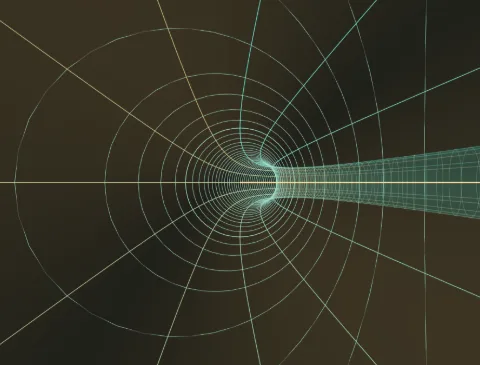
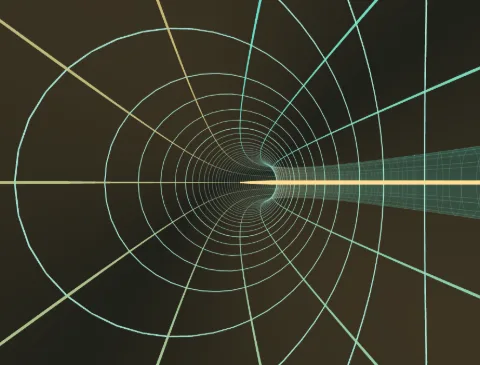
Taper strokes with depth in "Down a torus's tunnel" (#163)
## Summary
- \"Down a torus's tunnel\" now opens with **Lines → Depth: Taper with
distance**. With even strokes the contact circles looked unevenly
weighted; tapering fixes it.
- Redrew the preset's light and dark thumbnails (`make thumbnails`); no
other thumbnail changed.

No engine preset copy needed regenerating: `sight` is UI-only and isn't
in `engine3/testdata/presets.json`.

## Checks
- `tsc --noEmit`
- Playwright (Chromium): `gallery`, `spatial-projection-ui`,
`notebook-consistency`, `study-link`, `help-text`: 85 passed

🤖 Generated with [Claude Code](https://claude.com/claude-code)

diff --git a/web/spatial/presets.ts b/web/spatial/presets.ts
@@ -2888,7 +2888,9 @@ export const spatialPresets: {
   // of the ring shows through the see-through wall. The pan turns with the
   // yaw, so one whole turn of yaw carries the target once around the core
   // circle: a steady leg of one turn flies the tunnel's length, and its
-  // last frame is its first, so it loops.
+  // last frame is its first, so it loops. Strokes taper with depth: even
+  // strokes give the near rings, swept large past the eye, the same
+  // weight as the far ones, so the rings look unevenly drawn.
   {
     name: "Down a torus's tunnel",
     detail:
@@ -2913,6 +2915,7 @@ export const spatialPresets: {
       opacity: 0.25,
       hidden: "faint",
       weight: "regular",
+      depth: "taper",
     },
     layers: { frames: false, seam: false },
     projection: "chosen",
